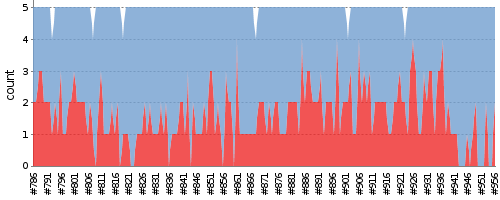
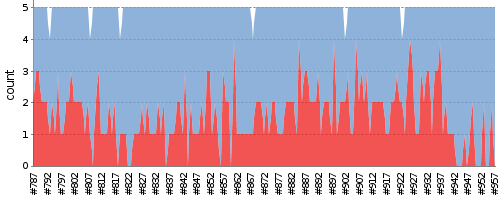
update report

diff --git a/index.md b/index.md
@@ -1,7 +1,7 @@
 ---
 layout: default
 ---
-Last update : 2016/01/26 04:59:09
+Last update : 2016/01/26 05:59:07
   
 ### Job Summary
 ___
@@ -113,11 +113,12 @@ ___
 ___
 #### Build Stability
 ![Jenkins Icon](http://jenkinshrg.github.io/images/48x48/health-00to19.png)
-10%
+11%
   
 #### Build History
 |Status|Time|Duration|Inspection|Test|Coverage|Changes|Build|Console|Image|Video|Note|
 |---|---|---|---|---|---|---|---|---|---|---|---|---|
+|![Jenkins Icon](http://jenkinshrg.github.io/images/24x24/blue.png)SUCCESS|2016/01/26 05:00|48 min.||0 err.|||[openhrp3.log](https://drive.google.com/file/d/0B54sHwaxmuM4WkZLMEk4UjJTbXM/view?usp=drivesdk)<br>[hrpsys-base.log](https://drive.google.com/file/d/0B54sHwaxmuM4djlRSUhEbkZ2bWc/view?usp=drivesdk)<br>[HRP2.log](https://drive.google.com/file/d/0B54sHwaxmuM4NDZBVm9QeDh4WVk/view?usp=drivesdk)<br>[HRP2DRC.log](https://drive.google.com/file/d/0B54sHwaxmuM4R1k0YXNKSTQ3VjA/view?usp=drivesdk)<br>[hmc2.log](https://drive.google.com/file/d/0B54sHwaxmuM4QXpNdDA2VXFUUmM/view?usp=drivesdk)<br>[hrpsys-humanoid.log](https://drive.google.com/file/d/0B54sHwaxmuM4aUVHS1JrS3htQWc/view?usp=drivesdk)<br>[hrpsys-private.log](https://drive.google.com/file/d/0B54sHwaxmuM4STMyNjM4REZ1bkk/view?usp=drivesdk)<br>[choreonoid.log](https://drive.google.com/file/d/0B54sHwaxmuM4bG5GR3JLQUhVOGM/view?usp=drivesdk)<br>|[jenkinshrg.txt](https://drive.google.com/file/d/0B54sHwaxmuM4Q1lhZDNPV0hvS2s/view?usp=drivesdk)<br>[testbed-terrain.txt](https://drive.google.com/file/d/0B54sHwaxmuM4MFB0M1lQOUJReG8/view?usp=drivesdk)<br>[drc-valves.txt](https://drive.google.com/file/d/0B54sHwaxmuM4Y3loVWpRbl9BbVE/view?usp=drivesdk)<br>[drc-wall-testbed.txt](https://drive.google.com/file/d/0B54sHwaxmuM4aVNsR0NQcWFPeVE/view?usp=drivesdk)<br>[irex-balance-beam-auto.txt](https://drive.google.com/file/d/0B54sHwaxmuM4b3QxMG1JMnhRNHc/view?usp=drivesdk)<br>|[jenkinshrg.png](https://drive.google.com/file/d/0B54sHwaxmuM4SmU5enNsdTdiZEU/view?usp=drivesdk)<br>[testbed-terrain.png](https://drive.google.com/file/d/0B54sHwaxmuM4VllKVFhvcC16eDg/view?usp=drivesdk)<br>[drc-valves.png](https://drive.google.com/file/d/0B54sHwaxmuM4QW8xRVc2NkZPU0k/view?usp=drivesdk)<br>[drc-wall-testbed.png](https://drive.google.com/file/d/0B54sHwaxmuM4NjhaUUpQQnVaUnM/view?usp=drivesdk)<br>[irex-balance-beam-auto.png](https://drive.google.com/file/d/0B54sHwaxmuM4N2hZQnVaY2xTSUE/view?usp=drivesdk)<br>|[jenkinshrg.ogv](https://drive.google.com/file/d/0B54sHwaxmuM4bEdGRkg1RVRwQzg/view?usp=drivesdk)<br>[testbed-terrain.ogv](https://drive.google.com/file/d/0B54sHwaxmuM4cGY3MkpHVE1wM0U/view?usp=drivesdk)<br>[drc-valves.ogv](https://drive.google.com/file/d/0B54sHwaxmuM4YktPRDNIbXJLLTQ/view?usp=drivesdk)<br>[drc-wall-testbed.ogv](https://drive.google.com/file/d/0B54sHwaxmuM4S0M1TmdabzY5UGM/view?usp=drivesdk)<br>[irex-balance-beam-auto.ogv](https://drive.google.com/file/d/0B54sHwaxmuM4bm4zLUpRTGVZNzA/view?usp=drivesdk)<br>||
 |![Jenkins Icon](http://jenkinshrg.github.io/images/24x24/yellow.png)UNSTABLE|2016/01/26 04:00|48 min.||2 err.|||[openhrp3.log](https://drive.google.com/file/d/0B54sHwaxmuM4czRSem5YeUdzV2M/view?usp=drivesdk)<br>[hrpsys-base.log](https://drive.google.com/file/d/0B54sHwaxmuM4Y2NlLXZwRlpfcXc/view?usp=drivesdk)<br>[HRP2.log](https://drive.google.com/file/d/0B54sHwaxmuM4UFZWcmRaNU43UkE/view?usp=drivesdk)<br>[HRP2DRC.log](https://drive.google.com/file/d/0B54sHwaxmuM4UjZzWGVnMFQwdzQ/view?usp=drivesdk)<br>[hmc2.log](https://drive.google.com/file/d/0B54sHwaxmuM4RzNWOHFqNXhnbFk/view?usp=drivesdk)<br>[hrpsys-humanoid.log](https://drive.google.com/file/d/0B54sHwaxmuM4ajk5MWxxcVl1WFU/view?usp=drivesdk)<br>[hrpsys-private.log](https://drive.google.com/file/d/0B54sHwaxmuM4VElEM3lhRmpGM0U/view?usp=drivesdk)<br>[choreonoid.log](https://drive.google.com/file/d/0B54sHwaxmuM4OHJTMGU3VTdRcGc/view?usp=drivesdk)<br>|[jenkinshrg.txt](https://drive.google.com/file/d/0B54sHwaxmuM4cmpsTWYzOXhlQ2s/view?usp=drivesdk)<br>[testbed-terrain.txt](https://drive.google.com/file/d/0B54sHwaxmuM4emRJdi1pTFIxaDQ/view?usp=drivesdk)<br>[drc-valves.txt](https://drive.google.com/file/d/0B54sHwaxmuM4LW45SF9uSjBZX3c/view?usp=drivesdk)<br>[drc-wall-testbed.txt](https://drive.google.com/file/d/0B54sHwaxmuM4VThFdWJ2T2t0TkU/view?usp=drivesdk)<br>[irex-balance-beam-auto.txt](https://drive.google.com/file/d/0B54sHwaxmuM4cGFkZWpTN29PcEU/view?usp=drivesdk)<br>|[jenkinshrg.png](https://drive.google.com/file/d/0B54sHwaxmuM4Uko0NDBiVlBGdmc/view?usp=drivesdk)<br>[testbed-terrain.png](https://drive.google.com/file/d/0B54sHwaxmuM4ck5laGljYnNHcTg/view?usp=drivesdk)<br>[drc-valves.png](https://drive.google.com/file/d/0B54sHwaxmuM4Tnd5aHF2b0hNVWM/view?usp=drivesdk)<br>[drc-wall-testbed.png](https://drive.google.com/file/d/0B54sHwaxmuM4bi1tWmtiRngzeGM/view?usp=drivesdk)<br>[irex-balance-beam-auto.png](https://drive.google.com/file/d/0B54sHwaxmuM4ODU2VmFvcS1nVTQ/view?usp=drivesdk)<br>|[jenkinshrg.ogv](https://drive.google.com/file/d/0B54sHwaxmuM4d21VVENtTlBrRG8/view?usp=drivesdk)<br>[testbed-terrain.ogv](https://drive.google.com/file/d/0B54sHwaxmuM4NlpkSmhtckRzYlE/view?usp=drivesdk)<br>[drc-valves.ogv](https://drive.google.com/file/d/0B54sHwaxmuM4TTJsOWpBY2x5dUE/view?usp=drivesdk)<br>[drc-wall-testbed.ogv](https://drive.google.com/file/d/0B54sHwaxmuM4Vm5MaURQTmpMUTA/view?usp=drivesdk)<br>[irex-balance-beam-auto.ogv](https://drive.google.com/file/d/0B54sHwaxmuM4eTQ5RU1tNFpYSDA/view?usp=drivesdk)<br>||
 |![Jenkins Icon](http://jenkinshrg.github.io/images/24x24/blue.png)SUCCESS|2016/01/26 03:00|49 min.||0 err.|||[openhrp3.log](https://drive.google.com/file/d/0B54sHwaxmuM4OGxKVFRSakZlQjA/view?usp=drivesdk)<br>[hrpsys-base.log](https://drive.google.com/file/d/0B54sHwaxmuM4MzI2SkpnME1ucXM/view?usp=drivesdk)<br>[HRP2.log](https://drive.google.com/file/d/0B54sHwaxmuM4ZlVIZkVkTVFHTnM/view?usp=drivesdk)<br>[HRP2DRC.log](https://drive.google.com/file/d/0B54sHwaxmuM4U3JnMlJFR0tGOG8/view?usp=drivesdk)<br>[hmc2.log](https://drive.google.com/file/d/0B54sHwaxmuM4bXpacW1VVW9kUm8/view?usp=drivesdk)<br>[hrpsys-humanoid.log](https://drive.google.com/file/d/0B54sHwaxmuM4dmtzSjl6RHdhNTA/view?usp=drivesdk)<br>[hrpsys-private.log](https://drive.google.com/file/d/0B54sHwaxmuM4M2Z0WFlYRTlIM1k/view?usp=drivesdk)<br>[choreonoid.log](https://drive.google.com/file/d/0B54sHwaxmuM4eHM0NkNSZmV5bm8/view?usp=drivesdk)<br>|[jenkinshrg.txt](https://drive.google.com/file/d/0B54sHwaxmuM4LTMyR0R0MjFTcEU/view?usp=drivesdk)<br>[testbed-terrain.txt](https://drive.google.com/file/d/0B54sHwaxmuM4MXZCMDB3aklSVUk/view?usp=drivesdk)<br>[drc-valves.txt](https://drive.google.com/file/d/0B54sHwaxmuM4aUVYc04xTlA0aXc/view?usp=drivesdk)<br>[drc-wall-testbed.txt](https://drive.google.com/file/d/0B54sHwaxmuM4Zk5zaE1fYkR3Nms/view?usp=drivesdk)<br>[irex-balance-beam-auto.txt](https://drive.google.com/file/d/0B54sHwaxmuM4blhfYmF0NXp5S00/view?usp=drivesdk)<br>|[jenkinshrg.png](https://drive.google.com/file/d/0B54sHwaxmuM4SVc4QVF3S1ZFTGs/view?usp=drivesdk)<br>[testbed-terrain.png](https://drive.google.com/file/d/0B54sHwaxmuM4ZmJiSVRtNi1MLVk/view?usp=drivesdk)<br>[drc-valves.png](https://drive.google.com/file/d/0B54sHwaxmuM4LXNRbUFKeVBBc00/view?usp=drivesdk)<br>[drc-wall-testbed.png](https://drive.google.com/file/d/0B54sHwaxmuM4MmhpMlFybjc3Zlk/view?usp=drivesdk)<br>[irex-balance-beam-auto.png](https://drive.google.com/file/d/0B54sHwaxmuM4QzZMVEN5dWZqX0k/view?usp=drivesdk)<br>|[jenkinshrg.ogv](https://drive.google.com/file/d/0B54sHwaxmuM4UlZ4MWtMSzdubEE/view?usp=drivesdk)<br>[testbed-terrain.ogv](https://drive.google.com/file/d/0B54sHwaxmuM4Y1JiN2FtNTUzX3M/view?usp=drivesdk)<br>[drc-valves.ogv](https://drive.google.com/file/d/0B54sHwaxmuM4ZmNNLTlfSmFHaGM/view?usp=drivesdk)<br>[drc-wall-testbed.ogv](https://drive.google.com/file/d/0B54sHwaxmuM4U2haSi1MaXdQV2c/view?usp=drivesdk)<br>[irex-balance-beam-auto.ogv](https://drive.google.com/file/d/0B54sHwaxmuM4eUh6MGJPeVFsN28/view?usp=drivesdk)<br>||
 |![Jenkins Icon](http://jenkinshrg.github.io/images/24x24/blue.png)SUCCESS|2016/01/26 02:00|48 min.||0 err.|||[openhrp3.log](https://drive.google.com/file/d/0B54sHwaxmuM4UDAtT3ZZZkg0QUE/view?usp=drivesdk)<br>[hrpsys-base.log](https://drive.google.com/file/d/0B54sHwaxmuM4T1JHSFM1QnpMdzQ/view?usp=drivesdk)<br>[HRP2.log](https://drive.google.com/file/d/0B54sHwaxmuM4N0JCREVIeXRya0U/view?usp=drivesdk)<br>[HRP2DRC.log](https://drive.google.com/file/d/0B54sHwaxmuM4V0tQVTQ0TV9VYTQ/view?usp=drivesdk)<br>[hmc2.log](https://drive.google.com/file/d/0B54sHwaxmuM4RFU3dnJHS1NfRlk/view?usp=drivesdk)<br>[hrpsys-humanoid.log](https://drive.google.com/file/d/0B54sHwaxmuM4RjgtNWg5VmtzYkk/view?usp=drivesdk)<br>[hrpsys-private.log](https://drive.google.com/file/d/0B54sHwaxmuM4dVpyUnF1ZHIwSDA/view?usp=drivesdk)<br>[choreonoid.log](https://drive.google.com/file/d/0B54sHwaxmuM4SHBSSXlTOTJkTFE/view?usp=drivesdk)<br>|[jenkinshrg.txt](https://drive.google.com/file/d/0B54sHwaxmuM4VjMzT0c5eUl1Wnc/view?usp=drivesdk)<br>[testbed-terrain.txt](https://drive.google.com/file/d/0B54sHwaxmuM4cHR1Wm9aZ0VGQjQ/view?usp=drivesdk)<br>[drc-valves.txt](https://drive.google.com/file/d/0B54sHwaxmuM4R1NHMnJoSmo3Zms/view?usp=drivesdk)<br>[drc-wall-testbed.txt](https://drive.google.com/file/d/0B54sHwaxmuM4a0R5S01PQmVCVG8/view?usp=drivesdk)<br>[irex-balance-beam-auto.txt](https://drive.google.com/file/d/0B54sHwaxmuM4bUFHaTRyYlRLQTA/view?usp=drivesdk)<br>|[jenkinshrg.png](https://drive.google.com/file/d/0B54sHwaxmuM4T1BlUk5OaUJlUFE/view?usp=drivesdk)<br>[testbed-terrain.png](https://drive.google.com/file/d/0B54sHwaxmuM4S3k4SWR5aDRpbzg/view?usp=drivesdk)<br>[drc-valves.png](https://drive.google.com/file/d/0B54sHwaxmuM4M20zekNLQXBhdTA/view?usp=drivesdk)<br>[drc-wall-testbed.png](https://drive.google.com/file/d/0B54sHwaxmuM4a050VUdaWDVneTg/view?usp=drivesdk)<br>[irex-balance-beam-auto.png](https://drive.google.com/file/d/0B54sHwaxmuM4cEl0YWlFN0VEOFE/view?usp=drivesdk)<br>|[jenkinshrg.ogv](https://drive.google.com/file/d/0B54sHwaxmuM4dUlGcUN1dktVU3M/view?usp=drivesdk)<br>[testbed-terrain.ogv](https://drive.google.com/file/d/0B54sHwaxmuM4R25qbUlJU21zSE0/view?usp=drivesdk)<br>[drc-valves.ogv](https://drive.google.com/file/d/0B54sHwaxmuM4aUpsdzd5bmJJUUk/view?usp=drivesdk)<br>[drc-wall-testbed.ogv](https://drive.google.com/file/d/0B54sHwaxmuM4aGM5R0FLTzNLVWM/view?usp=drivesdk)<br>[irex-balance-beam-auto.ogv](https://drive.google.com/file/d/0B54sHwaxmuM4Z2Y2QWRFZFlLNk0/view?usp=drivesdk)<br>||
@@ -217,4 +218,3 @@ ___
 |![Jenkins Icon](http://jenkinshrg.github.io/images/24x24/blue.png)SUCCESS|2016/01/22 09:00|44 min.||0 err.||||[jenkinshrg.txt](https://drive.google.com/file/d/0B54sHwaxmuM4SkJsSFlnMU9BUkE/view?usp=drivesdk)<br>[testbed-terrain.txt](https://drive.google.com/file/d/0B54sHwaxmuM4dFY4Nk94RW1aVlk/view?usp=drivesdk)<br>[drc-valves.txt](https://drive.google.com/file/d/0B54sHwaxmuM4TndvYnRGWUJYRkk/view?usp=drivesdk)<br>[drc-wall-testbed.txt](https://drive.google.com/file/d/0B54sHwaxmuM4dkdGc0NHOTdXWkE/view?usp=drivesdk)<br>[irex-balance-beam-auto.txt](https://drive.google.com/file/d/0B54sHwaxmuM4S2E3NUJRODZ1VjQ/view?usp=drivesdk)<br>|[jenkinshrg.png](https://drive.google.com/file/d/0B54sHwaxmuM4MTRsc2diUFFzWEE/view?usp=drivesdk)<br>[testbed-terrain.png](https://drive.google.com/file/d/0B54sHwaxmuM4MlVtS2VGM2FmbkU/view?usp=drivesdk)<br>[drc-valves.png](https://drive.google.com/file/d/0B54sHwaxmuM4Ry1WYW1aaHpFUnc/view?usp=drivesdk)<br>[drc-wall-testbed.png](https://drive.google.com/file/d/0B54sHwaxmuM4eDYyc0ozR0I3ak0/view?usp=drivesdk)<br>[irex-balance-beam-auto.png](https://drive.google.com/file/d/0B54sHwaxmuM4ZmJwTnFLdHc2V0k/view?usp=drivesdk)<br>|[jenkinshrg.ogv](https://drive.google.com/file/d/0B54sHwaxmuM4aVhkSE1md0NSOHc/view?usp=drivesdk)<br>[testbed-terrain.ogv](https://drive.google.com/file/d/0B54sHwaxmuM4c0p6ZGJaTXFfeFk/view?usp=drivesdk)<br>[drc-valves.ogv](https://drive.google.com/file/d/0B54sHwaxmuM4MktVcUY4ZzZJZGc/view?usp=drivesdk)<br>[drc-wall-testbed.ogv](https://drive.google.com/file/d/0B54sHwaxmuM4THVOUlV5bXJyNTA/view?usp=drivesdk)<br>[irex-balance-beam-auto.ogv](https://drive.google.com/file/d/0B54sHwaxmuM4NEZxTEgzZ09BQ0E/view?usp=drivesdk)<br>||
 |![Jenkins Icon](http://jenkinshrg.github.io/images/24x24/yellow.png)UNSTABLE|2016/01/22 08:00|44 min.||2 err.||||[jenkinshrg.txt](https://drive.google.com/file/d/0B54sHwaxmuM4YmV4M3JPbDFZQjg/view?usp=drivesdk)<br>[testbed-terrain.txt](https://drive.google.com/file/d/0B54sHwaxmuM4NnVfNzRCd2QzX1E/view?usp=drivesdk)<br>[drc-valves.txt](https://drive.google.com/file/d/0B54sHwaxmuM4WkZIQy1kX0JDdjQ/view?usp=drivesdk)<br>[drc-wall-testbed.txt](https://drive.google.com/file/d/0B54sHwaxmuM4VHhtbnpNeEdvYU0/view?usp=drivesdk)<br>[irex-balance-beam-auto.txt](https://drive.google.com/file/d/0B54sHwaxmuM4NFJVSng1dTNLS1k/view?usp=drivesdk)<br>|[jenkinshrg.png](https://drive.google.com/file/d/0B54sHwaxmuM4WFZMMjhGMnFyR00/view?usp=drivesdk)<br>[testbed-terrain.png](https://drive.google.com/file/d/0B54sHwaxmuM4MlVZQldBMVpIeDQ/view?usp=drivesdk)<br>[drc-valves.png](https://drive.google.com/file/d/0B54sHwaxmuM4VWNfWXhqQUNzTVE/view?usp=drivesdk)<br>[drc-wall-testbed.png](https://drive.google.com/file/d/0B54sHwaxmuM4S2J4R3hvUl96STA/view?usp=drivesdk)<br>[irex-balance-beam-auto.png](https://drive.google.com/file/d/0B54sHwaxmuM4Y1NJUGd3M1h2NUU/view?usp=drivesdk)<br>|[jenkinshrg.ogv](https://drive.google.com/file/d/0B54sHwaxmuM4QXNmbGdSU0VhTjg/view?usp=drivesdk)<br>[testbed-terrain.ogv](https://drive.google.com/file/d/0B54sHwaxmuM4QmZpSFd1VTVpZGs/view?usp=drivesdk)<br>[drc-valves.ogv](https://drive.google.com/file/d/0B54sHwaxmuM4dl92dk8tbF8xNG8/view?usp=drivesdk)<br>[drc-wall-testbed.ogv](https://drive.google.com/file/d/0B54sHwaxmuM4b3dSVFhfWEdNM0k/view?usp=drivesdk)<br>[irex-balance-beam-auto.ogv](https://drive.google.com/file/d/0B54sHwaxmuM4bzV1azNVc29aTUE/view?usp=drivesdk)<br>||
 |![Jenkins Icon](http://jenkinshrg.github.io/images/24x24/yellow.png)UNSTABLE|2016/01/22 07:00|44 min.||2 err.||||[jenkinshrg.txt](https://drive.google.com/file/d/0B54sHwaxmuM4SVZEYmwzNjNhN0U/view?usp=drivesdk)<br>[testbed-terrain.txt](https://drive.google.com/file/d/0B54sHwaxmuM4M1VISDVyVTNSMkk/view?usp=drivesdk)<br>[drc-valves.txt](https://drive.google.com/file/d/0B54sHwaxmuM4RFRLRVEwVTY1NkE/view?usp=drivesdk)<br>[drc-wall-testbed.txt](https://drive.google.com/file/d/0B54sHwaxmuM4QlphNHZVUmVESFE/view?usp=drivesdk)<br>[irex-balance-beam-auto.txt](https://drive.google.com/file/d/0B54sHwaxmuM4QTU2WVkyNzQzYXc/view?usp=drivesdk)<br>|[jenkinshrg.png](https://drive.google.com/file/d/0B54sHwaxmuM4X0ZOT2ZfZ2F0d1U/view?usp=drivesdk)<br>[testbed-terrain.png](https://drive.google.com/file/d/0B54sHwaxmuM4XzNsLTJJbVZaUTQ/view?usp=drivesdk)<br>[drc-valves.png](https://drive.google.com/file/d/0B54sHwaxmuM4cXUydVdVNmhtN2s/view?usp=drivesdk)<br>[drc-wall-testbed.png](https://drive.google.com/file/d/0B54sHwaxmuM4X0N3TTQwS0VnQ0U/view?usp=drivesdk)<br>[irex-balance-beam-auto.png](https://drive.google.com/file/d/0B54sHwaxmuM4UnhUb21xMGUyMkE/view?usp=drivesdk)<br>|[jenkinshrg.ogv](https://drive.google.com/file/d/0B54sHwaxmuM4RERxMjhxbHltajA/view?usp=drivesdk)<br>[testbed-terrain.ogv](https://drive.google.com/file/d/0B54sHwaxmuM4ZHVlSHRBWDhkUjg/view?usp=drivesdk)<br>[drc-valves.ogv](https://drive.google.com/file/d/0B54sHwaxmuM4My14NzdWd01OQzg/view?usp=drivesdk)<br>[drc-wall-testbed.ogv](https://drive.google.com/file/d/0B54sHwaxmuM4MWhkd1UweEt6QzA/view?usp=drivesdk)<br>[irex-balance-beam-auto.ogv](https://drive.google.com/file/d/0B54sHwaxmuM4MGpSQUczUkQ2ckU/view?usp=drivesdk)<br>||
-|![Jenkins Icon](http://jenkinshrg.github.io/images/24x24/yellow.png)UNSTABLE|2016/01/22 06:00|44 min.||3 err.||||[jenkinshrg.txt](https://drive.google.com/file/d/0B54sHwaxmuM4eUFoaU9RNU84c1E/view?usp=drivesdk)<br>[testbed-terrain.txt](https://drive.google.com/file/d/0B54sHwaxmuM4UzE4LTZjb09oWDg/view?usp=drivesdk)<br>[drc-valves.txt](https://drive.google.com/file/d/0B54sHwaxmuM4UTF3Tk9RX0ZHUDA/view?usp=drivesdk)<br>[drc-wall-testbed.txt](https://drive.google.com/file/d/0B54sHwaxmuM4d3dOSXJOU0k2d1U/view?usp=drivesdk)<br>[irex-balance-beam-auto.txt](https://drive.google.com/file/d/0B54sHwaxmuM4Yll3NEt3X0p2NGs/view?usp=drivesdk)<br>|[jenkinshrg.png](https://drive.google.com/file/d/0B54sHwaxmuM4TEN6VVpRM1JxNUk/view?usp=drivesdk)<br>[testbed-terrain.png](https://drive.google.com/file/d/0B54sHwaxmuM4MEtMTjFoYUMwVUE/view?usp=drivesdk)<br>[drc-valves.png](https://drive.google.com/file/d/0B54sHwaxmuM4N01tV3JMQm1sQzQ/view?usp=drivesdk)<br>[drc-wall-testbed.png](https://drive.google.com/file/d/0B54sHwaxmuM4N292LXRUejhuYkE/view?usp=drivesdk)<br>[irex-balance-beam-auto.png](https://drive.google.com/file/d/0B54sHwaxmuM4RDZka0J0bGJJMG8/view?usp=drivesdk)<br>|[jenkinshrg.ogv](https://drive.google.com/file/d/0B54sHwaxmuM4ZkI4cFlKd2xtMjA/view?usp=drivesdk)<br>[testbed-terrain.ogv](https://drive.google.com/file/d/0B54sHwaxmuM4djVUTjVkdFFYZXc/view?usp=drivesdk)<br>[drc-valves.ogv](https://drive.google.com/file/d/0B54sHwaxmuM4M3JGOWlMZUtRV1k/view?usp=drivesdk)<br>[drc-wall-testbed.ogv](https://drive.google.com/file/d/0B54sHwaxmuM4T0dvYTdIQ1R3VDQ/view?usp=drivesdk)<br>[irex-balance-beam-auto.ogv](https://drive.google.com/file/d/0B54sHwaxmuM4R2QwaE5wSDFndmM/view?usp=drivesdk)<br>||
